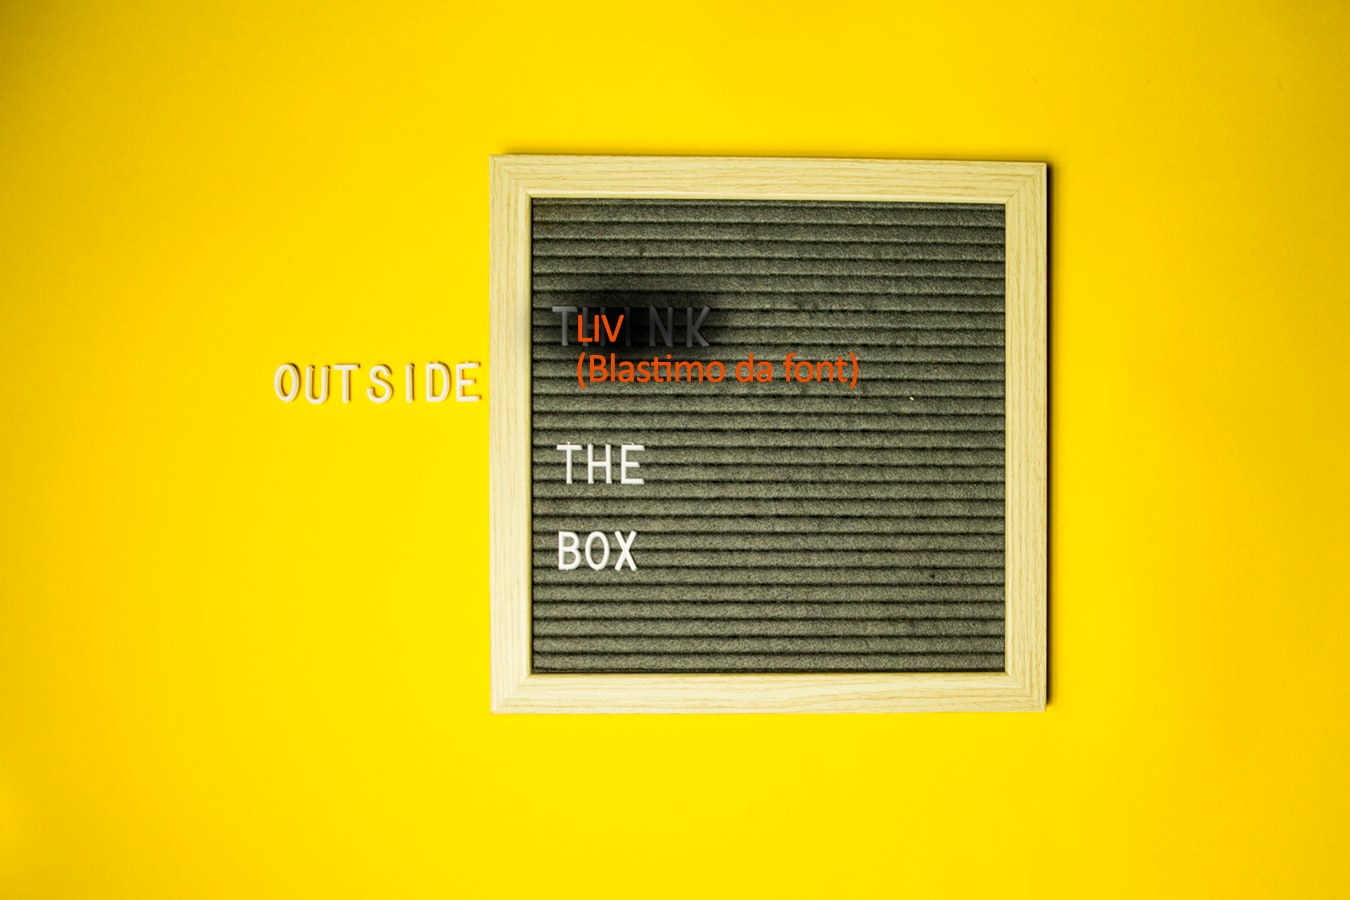
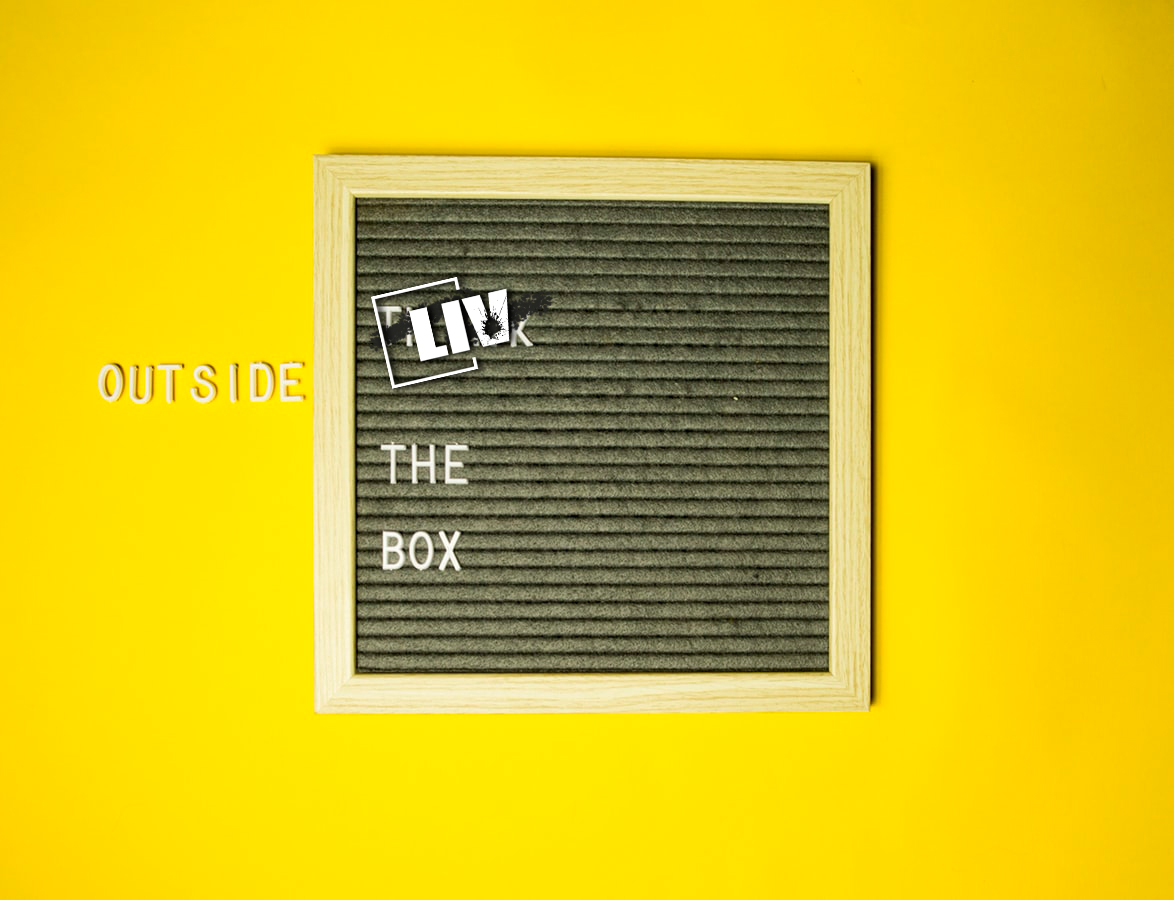
Added main page image and company description

Changed region(s): [[0.0613, 0.1556, 0.7973, 0.8089], [0.0, 0.0, 0.092, 0.4667]]

diff --git a/index.html b/index.html
@@ -8,18 +8,31 @@
   <link rel="stylesheet" href="/css/mediacontrol.css">
   <title>LIV | liv outside the box</title>
 </head>
-<body class="container">
-  <div class="logo">
+<body>
+  <!-- <div class="logo">
     <img id="logoImg" src="/images/liv-logo.png" alt="Liv Logo">
     <p id="tagline"></p>
+  </div> -->
+  <div class="mainPic">
+    <img class="responsive" src="/images/main-pic-wide.png" alt="Main Pic">
   </div>
-  <!-- <div class="header">
+  <div class="header">
     <li><a href="/">home</a></li>
     <li><a href="/about">about</a></li>
     <li><a href="/connect">connect</a></li>
-  </div> -->
-  <div class="mainPic">
-    <img src="/images/main-pic.jpg" alt="Main Pic">
+  </div>
+  <div class="mainDescription">
+    <div class="livDescription container960 responsive">
+      <h1>
+        <p>You already have great brand.  We will make it LIV better.</p>
+      </h1>
+      <h3>
+        <p>A business architect company with a vision to contribute to building innovative, incredible businesses, and brands by creating new channels of thought and actions through business business developement, marketing, branding, and advertising services.</p>
+      </h3>
+      <h3 class="learnMore">
+        <p>learn more</p>
+      </h3>
+    </div>
   </div>
   <div class="footer header">
     <li>

diff --git a/css/stylesheet.css b/css/stylesheet.css
@@ -9,16 +9,33 @@ body, html {
 .border{
   border: 5px solid red;
 }
-.container {
+.container960 {
   max-width: 960px;
   margin: 0 auto;
   padding: 0;
+}
+.responsive {
+  width: 100%;
+  height: auto
 }
 #logoImg {
   display: block;
   max-height: 75px;
   margin: 50px auto;
 }
+.mainDescription{
+    background-color: rgba(48, 48, 38, 1);
+    height: 400px;
+    color: white;
+}
+.livDescription {
+  text-align: center;
+  padding: 5% 0;
+}
+.learnMore{
+  border: 5px solid white;
+}
+
 #tagline {
     font-family: 'Oswald', sans-serif;
     text-align: center;
@@ -26,12 +43,11 @@ body, html {
     font-size: 20px;
     margin: 0;
 }
-.mainPic{
+.mainPic > img {
   display:block;
   margin: 0 auto;
-  max-width: 100%;
 }
-.header, .footer{
+.header{
   text-align: center;
   margin: 30px;
 }
@@ -39,6 +55,7 @@ body, html {
   color: rgba(20, 19, 19, 1);
   list-style-type: none;
   display: inline;
+  padding: 0 10%;
 }
 .skillsList {
   text-align: center;
